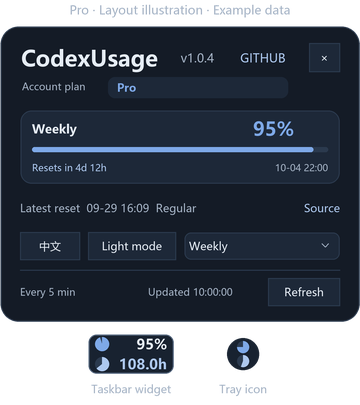
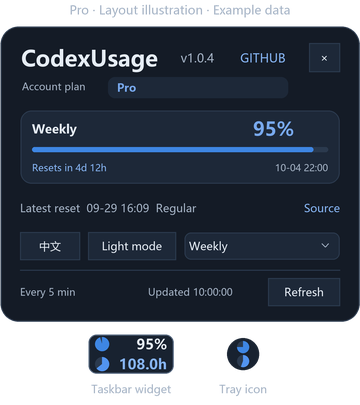
Refine v1.0.4 with richer dark blues and coordinated light greens

diff --git a/src/Theme.cs b/src/Theme.cs
@@ -10,14 +10,14 @@ namespace CodexQuotaLite
     {
         private static readonly Palette Dark = new Palette("dark",
             Color.FromArgb(20, 27, 38), Color.FromArgb(29, 40, 56), Color.FromArgb(43, 58, 78),
-            Color.FromArgb(230, 237, 245), Color.FromArgb(164, 178, 196), Color.FromArgb(126, 169, 232),
-            Color.FromArgb(173, 200, 238), Color.FromArgb(230, 182, 106),
-            Color.FromArgb(24, 34, 48), Color.FromArgb(126, 169, 232), Color.FromArgb(173, 200, 238), Color.FromArgb(173, 200, 238), Color.FromArgb(75, 94, 119));
+            Color.FromArgb(230, 237, 245), Color.FromArgb(164, 178, 196), Color.FromArgb(120, 169, 238),
+            Color.FromArgb(134, 180, 242), Color.FromArgb(230, 182, 106),
+            Color.FromArgb(24, 34, 48), Color.FromArgb(62, 134, 227), Color.FromArgb(82, 148, 240), Color.FromArgb(134, 180, 242), Color.FromArgb(75, 94, 119));
         private static readonly Palette Light = new Palette("light",
             Color.FromArgb(229, 229, 229), Color.FromArgb(239, 239, 239), Color.FromArgb(214, 220, 229),
-            Color.FromArgb(35, 48, 68), Color.FromArgb(82, 97, 118), Color.FromArgb(41, 92, 146),
-            Color.FromArgb(49, 95, 145), Color.FromArgb(132, 82, 12),
-            Color.FromArgb(232, 232, 232), Color.FromArgb(57, 115, 175), Color.FromArgb(75, 120, 173), Color.FromArgb(49, 95, 145), Color.FromArgb(167, 179, 196));
+            Color.FromArgb(35, 48, 68), Color.FromArgb(82, 97, 118), Color.FromArgb(47, 104, 70),
+            Color.FromArgb(53, 107, 76), Color.FromArgb(132, 82, 12),
+            Color.FromArgb(232, 232, 232), Color.FromArgb(56, 131, 83), Color.FromArgb(71, 135, 94), Color.FromArgb(53, 107, 76), Color.FromArgb(167, 179, 196));
         private static Palette current = Dark;
 
         internal static void Apply(string mode) { current = mode == "light" ? Light : Dark; }

diff --git a/tests/ThemeTests.cs b/tests/ThemeTests.cs
@@ -98,13 +98,14 @@ internal static class ThemeTests
         }
         foreach (string selectedMode in new[] { "dark", "light" }) {
             string mode = selectedMode;
-            Run(mode + " normal accents and rendered disks share a coherent blue palette", delegate {
+            Run(mode + " normal accents and rendered disks share the requested colour family", delegate {
                 SetMode(mode); QuotaWindow full = Sample(); full.UsedPercent = 0; full.ResetsAtUtc = Now.AddDays(7);
                 using (Bitmap widget = Render(2, full, false, false, ""))
                 using (Bitmap glyph = WidgetRenderer.RenderGlyph(64)) {
                     Color quota = widget.GetPixel(28, 20), time = widget.GetPixel(28, 60);
+                    float minimumHue = mode == "dark" ? 205 : 135, maximumHue = mode == "dark" ? 225 : 155;
                     foreach (Color accent in new[] { quota, time, glyph.GetPixel(36, 18), glyph.GetPixel(36, 46), Theme.Aqua, Theme.Blue, WidgetRenderer.TimeTextColor })
-                        Check(accent.GetHue() >= 205 && accent.GetHue() <= 225, "normal highlights stay in the same blue family instead of mixing green and blue");
+                        Check(accent.GetHue() >= minimumHue && accent.GetHue() <= maximumHue, "normal highlights stay blue in dark mode and green in light mode");
                     Check(ColorDistance(quota, time) >= 20, "quota and time keep subtly distinct shades");
                 }
             });

diff --git a/scripts/render-previews.py b/scripts/render-previews.py
@@ -16,11 +16,11 @@ CARD = (29, 40, 56)
 BORDER = (43, 58, 78)
 TEXT = (230, 237, 245)
 MUTED = (164, 178, 196)
-AQUA = (126, 169, 232)
-BLUE = (173, 200, 238)
+AQUA = (120, 169, 238)
+BLUE = (134, 180, 242)
 WIDGET_BG = (24, 34, 48)
-QUOTA = (126, 169, 232)
-TIME = (173, 200, 238)
+QUOTA = (62, 134, 227)
+TIME = (82, 148, 240)
 TIME_TEXT = BLUE
 
 

diff --git a/README.en.md b/README.en.md
@@ -8,7 +8,7 @@ A lightweight Windows widget for Codex quota and reset time, next to the notific
 
 For Windows x64.
 
-Local unified-palette revision (still v1.0.4): dark mode uses dark slate surfaces with soft blue highlights; light mode uses gentle gray surfaces with muted blue accents. Disks, quota values, countdowns, progress bars and menus share one blue colour family, with text and meaningful graphics checked for contrast. This revision has not replaced the GitHub release assets linked above.
+Local blue/green palette revision (still v1.0.4): dark mode uses dark slate surfaces with richer blue highlights; light mode uses gentle gray surfaces with soft green accents. Disks, quota values, countdowns, progress bars and menus share one colour family within each theme, with text and meaningful graphics checked for contrast. This revision has not replaced the GitHub release assets linked above.
 
 ![CodexUsage taskbar widget](assets/widget-preview.png)
 
@@ -48,7 +48,7 @@ Requires Windows x64, .NET Framework 4.8 or a newer 4.x version, and Codex insta
 
 Hover for a quick summary; move away or click to dismiss it. Right-click for the menu. The detail header shows the version and a link to the GitHub project.
 
-Change appearance with the Light mode / Dark mode button in the details view, or right-click the widget or tray icon and choose Appearance → Dark mode / Light mode. Language, theme and quota selection share one row. Dark mode pairs dark slate surfaces with light blue accents; light mode pairs soft gray surfaces with muted blue accents. Quota progress bars and quota disks share the primary accent. Normal states use one blue family; stale states use neutral gray and amber warnings. Active dropdown rows have an accent border. Theme switching needs no restart; the next launch restores your choice.
+Change appearance with the Light mode / Dark mode button in the details view, or right-click the widget or tray icon and choose Appearance → Dark mode / Light mode. Language, theme and quota selection share one row. Dark mode pairs dark slate surfaces with richer blue disks (#3E86E3 / #5294F0); light mode pairs soft gray surfaces with green disks (#388353 / #47875E). Quota progress bars and quota disks share the primary accent. Text uses readable shades from the same family: blue in dark mode and green in light mode. Stale states use neutral gray and amber warnings. Active dropdown rows have an accent border. Theme switching needs no restart; the next launch restores your choice.
 
 To update, exit the old version from the tray, then replace the EXE. Settings live in `%LOCALAPPDATA%\CodexUsage`; existing settings beside the EXE are imported on first run.
 
@@ -56,7 +56,7 @@ See [TESTING](docs/TESTING.md) for verification scope.
 
 ## Development
 
-The current version is **v1.0.4** (2026-09-30), with executable file and assembly versions **1.0.4.0**. It includes dark/light switching, a compact settings row, protocol input and announcement cache fixes, and recovery from taskbar occlusion on desktop reorder events. The local unified-palette revision passes all 265 automated checks, including text and graphical contrast. See [TESTING](docs/TESTING.md) for native GUI, live Plus-account and other multi-display/DPI verification limits.
+The current version is **v1.0.4** (2026-09-30), with executable file and assembly versions **1.0.4.0**. It includes dark/light switching, a compact settings row, protocol input and announcement cache fixes, and recovery from taskbar occlusion on desktop reorder events. The local blue/green palette revision passes all 265 automated checks, including text and graphical contrast. See [TESTING](docs/TESTING.md) for native GUI, live Plus-account and other multi-display/DPI verification limits.
 
 ```powershell
 ./scripts/build.ps1

diff --git a/README.md b/README.md
@@ -8,7 +8,7 @@
 
 适用于 Windows x64。
 
-本地统一配色修订（版本仍为 v1.0.4）：深色采用深蓝灰背景与柔和亮蓝强调，浅色采用柔和浅灰背景与沉稳蓝色强调。饼图、额度数字、倒计时、进度条与菜单保持同一蓝色系，并验证文字和有效图形的对比度。该修订尚未替换上方 GitHub 发行附件。
+本地蓝绿配色修订（版本仍为 v1.0.4）：深色采用深蓝灰背景与更鲜明的双蓝强调，浅色采用柔和浅灰背景与双绿强调。饼图、额度数字、倒计时、进度条与菜单在各自主题中保持同一色系，并验证文字和有效图形的对比度。该修订尚未替换上方 GitHub 发行附件。
 
 ![CodexUsage 任务栏小条](assets/widget-preview.png)
 
@@ -48,7 +48,7 @@
 
 悬停额度条可查看简要说明，移开或点击即关闭；右键打开菜单。详情顶部可查看版本号，并打开 GitHub 项目主页。
 
-切换外观：点击详情页中的“浅色模式／深色模式”按钮，或在额度条／托盘图标上右键，选择“外观 → 深色模式／浅色模式”。语言、主题和额度选择位于同一行。深色以深蓝灰背景配浅蓝文字和饼图，浅色以柔和浅灰背景配蓝色文字和饼图；额度进度条与额度饼图使用同一主强调色。普通状态统一为蓝色系，过期状态使用中性灰和琥珀色提示，下拉列表活动行有清晰的强调色边框。主题切换无需重启；下次启动恢复上次选择。
+切换外观：点击详情页中的“浅色模式／深色模式”按钮，或在额度条／托盘图标上右键，选择“外观 → 深色模式／浅色模式”。语言、主题和额度选择位于同一行。深色以深蓝灰背景配更鲜明、较浓的双蓝饼图（#3E86E3 / #5294F0），浅色以柔和浅灰背景配双绿饼图（#388353 / #47875E）；额度进度条与额度饼图使用同一主强调色。文字使用同色系中满足可读性的色阶，普通状态在深色中统一为蓝色系、浅色中统一为绿色系。过期状态使用中性灰和琥珀色提示，下拉列表活动行有清晰的强调色边框。主题切换无需重启；下次启动恢复上次选择。
 
 升级时先从托盘退出旧版，再替换 EXE。设置保存在 `%LOCALAPPDATA%\CodexUsage`，首次运行会导入同目录旧版的设置。
 
@@ -56,7 +56,7 @@
 
 ## 开发
 
-当前版本为 **v1.0.4**（2026-09-30），EXE 文件与程序集版本为 **1.0.4.0**。包含深浅主题切换、单行设置布局、通信输入编码与公告缓存修复，以及任务栏遮挡浮条时按层级变化事件恢复。本地统一配色修订通过 265 项自动检查（包含图形与文字对比度）；原生 GUI、真实 Plus 账号及其他多屏幕/DPI 场景的验证范围见 [测试说明](docs/TESTING.md)。
+当前版本为 **v1.0.4**（2026-09-30），EXE 文件与程序集版本为 **1.0.4.0**。包含深浅主题切换、单行设置布局、通信输入编码与公告缓存修复，以及任务栏遮挡浮条时按层级变化事件恢复。本地蓝绿配色修订通过 265 项自动检查（包含图形与文字对比度）；原生 GUI、真实 Plus 账号及其他多屏幕/DPI 场景的验证范围见 [测试说明](docs/TESTING.md)。
 
 ```powershell
 ./scripts/build.ps1

diff --git a/docs/TESTING.md b/docs/TESTING.md
@@ -81,6 +81,10 @@ Stacking tests production ordering decisions, event filtering and queue coalesci
 
 ## 结果 / Results
 
+2026-09-30 本地蓝绿配色修订（仍为 1.0.4）：在统一配色基础上，深色饼图改为更鲜明的 #3E86E3 / #5294F0，浅色改为 #388353 / #47875E；额度文字、倒计时、链接与菜单同步采用各自蓝色或绿色色系。背景、布局和功能不变，文档示意图同步重绘。构建及 All **265 项通过、0 失败**（Domain 37、Bridge 14、ResetFeed 46、Theme 27、Layout 121、Stacking 20），其中 Plus/Pro 双语字体与布局检查继续通过。实际渲染图形最低对比度为深色 3.15:1、浅色 3.11:1，所测语义文字最低为深色 4.79:1、浅色 4.77:1。已查看位图并独立审查配色应用范围；未执行本构建的原生 GUI 交互。
+
+The local blue/green revision on 2026-09-30 retains version 1.0.4. Dark disks use richer blues #3E86E3 / #5294F0; light disks use greens #388353 / #47875E. Quota text, countdowns, links and menus use matching blue or green shades. Backgrounds, layout and functionality are unchanged, and documentation illustrations were regenerated. The build and All passed **265 checks, zero failures** (Domain 37, Bridge 14, ResetFeed 46, Theme 27, Layout 121, Stacking 20), including bilingual Plus/Pro font and layout checks. Minimum measured graphical contrast is 3.15:1 dark and 3.11:1 light; tested semantic text minima are 4.79:1 dark and 4.77:1 light. Bitmaps were inspected and palette usage independently reviewed; native GUI interaction with this build was not executed.
+
 2026-09-30 本地统一配色修订（仍为 1.0.4）：重整深浅主题的背景、正文、主次蓝色强调与警告色，进度条使用额度饼图主色，下拉活动行增加强调边框。新增图形对比度回归并替换过时的固定色样断言，旧版为 23 通过/4 失败（包括深色图形 1.38:1、浅色 2.43:1）；最终构建和 All **265 项通过、0 失败**：Domain 37、Bridge 14、ResetFeed 46、Theme 27、Layout 121、Stacking 20。实际渲染填色相对轨道/背景的最低对比度为深色 4.80:1、浅色 3.32:1，所测正文/语义文字最低为深色 4.80:1、浅色 5.01:1。已查看位图和完成独立配色/源码审查；本构建仍未运行原生 GUI 交互。
 
 The local unified-palette revision on 2026-09-30 retains version 1.0.4. Surfaces, text, blue accents and warning colours are coordinated; progress bars use the quota disk accent and active dropdown rows gain an accent outline. New graphical-contrast regressions and updated hue checks produced 23 passes/4 failures on the previous palette, including graphical ratios of 1.38:1 dark and 2.43:1 light. The final build and All passed **265 checks, zero failures**: Domain 37, Bridge 14, ResetFeed 46, Theme 27, Layout 121, Stacking 20. Minimum measured rendered-fill contrast against tracks/surfaces is 4.80:1 dark and 3.32:1 light; tested semantic text minima are 4.80:1 dark and 5.01:1 light. Bitmaps and code were independently reviewed; native GUI interaction with this build was not executed.

diff --git a/CHANGELOG.md b/CHANGELOG.md
@@ -2,8 +2,8 @@
 
 ## 1.0.4 本地配色修订 / Local palette revision — Unreleased
 
-- 统一本地深浅模式配色：深色为深蓝灰底与柔和亮蓝，浅色为柔和浅灰底与沉稳蓝色；额度数字、饼图、倒计时和进度条使用协调的蓝色强调，警告使用独立琥珀色。下拉列表活动行增加强调边框，验证文字与图形对比度；布局、功能与版本号不变。
-  Unify dark/light palettes: dark slate surfaces with soft blue highlights, and gentle gray surfaces with muted blue accents. Quota values, disks, countdowns and progress bars use coordinated blues, with separate amber warnings. Add an accent outline to active dropdown rows and verify text/graphic contrast; layout, functionality and version are unchanged.
+- 统一本地深浅模式配色：深色为深蓝灰底与更鲜明的双蓝（#3E86E3 / #5294F0），浅色为柔和浅灰底与双绿（#388353 / #47875E）；额度数字、饼图、倒计时、进度条与菜单在各自主题中保持同一色系，文字使用更易读的同系色阶，警告使用独立琥珀色。下拉列表活动行增加强调边框，验证文字与图形对比度；布局、功能与版本号不变。
+  Unify dark/light palettes: dark slate surfaces with richer blues (#3E86E3 / #5294F0), and gentle gray surfaces with greens (#388353 / #47875E). Quota values, disks, countdowns, progress bars and menus share a colour family within each theme, with readable text shades and separate amber warnings. Add an accent outline to active dropdown rows and verify text/graphic contrast; layout, functionality and version are unchanged.
 
 ## 1.0.4 — 2026-09-30
 
